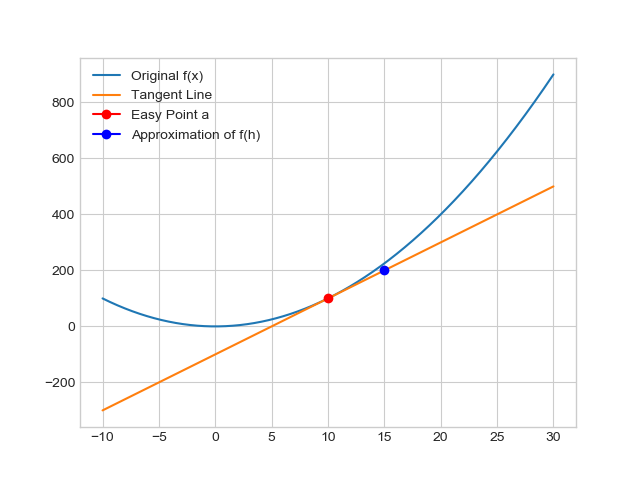
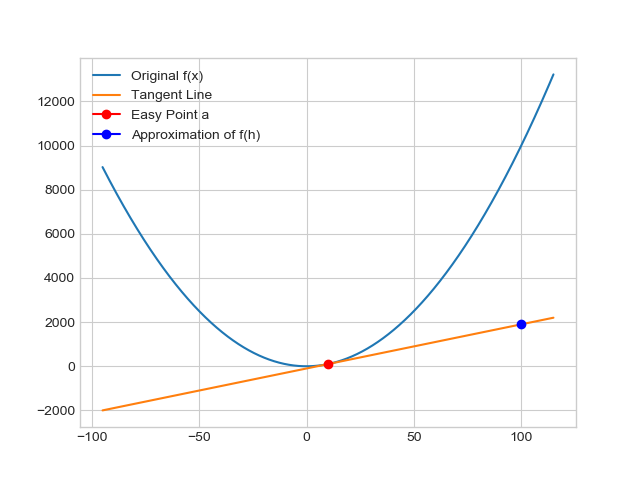
restructured maxmin route and function. Updated optimized.html to work with new variable names. Redid graph of maxmin route. Fixed maxmin route so that it properly discounts values outside of bounds given.

diff --git a/templates/optimized.html b/templates/optimized.html
@@ -8,8 +8,8 @@
 <div class="col-sm-12" style="background-color: #0f11175c; padding: 20px">
 	<font color="white" size="5">
     <div>
-        <p>Your function is $f(x) = {{ value }}$</p>
-        <p>Your maximum value is ${{ maximum }}$ and your minimum value is ${{ newvar }}$</p>
+        <p>Your function is $f(x) = {{ f }}$</p>
+        <p>Your maximum value is ${{ max_output }}$ and your minimum value is ${{ min_output }}$</p>
     </div>
 	</font>
 </div>
@@ -36,20 +36,20 @@
             <td>Step 3</td>
             <td>Solve for $x$:</td>
         </tr>
-        {% for solution in solutions %}
+        {% for extrema in extremaX %}
             <tr class="table-secondary">
                 <td></td>
-                <td>$x = {{ solution }}$</td>
+                <td>$x = {{ extrema }}$</td>
             </tr>
         {% endfor %}
         <tr class="bg-dark text-white">
             <td>Step 4</td>
-            <td>Plug solutions and endpoints into $f(x)$:</td>
+            <td>Plug VALID solutions and endpoints into $f(x)$:</td>
         </tr>
-        {% for candidate in candidates %}
+        {% for candidate in candidatesX %}
             <tr class="table-secondary">
                 <td></td>
-                <td>$f({{ candidate }}) = {{values[loop.index - 1]}}$</td>
+                <td>$f({{ candidate }}) = {{candidatesY[loop.index - 1]}}$</td>
             </tr>
         {% endfor %}
         <tr class="bg-dark text-white">
@@ -58,11 +58,11 @@
         </tr>
         <tr class="table-secondary">
             <td></td>
-            <td>Your maximum value is ${{ maximum }}$</td>
+            <td>Your maximum value is ${{ max_output }}$</td>
         </tr>
         <tr class="table-secondary">
             <td></td>
-            <td>Your minimum value is ${{ newvar }}$</td>
+            <td>Your minimum value is ${{ min_output }}$</td>
         </tr>
       </tbody>
     </table>

diff --git a/app.py b/app.py
@@ -126,52 +126,53 @@ def maxmin():
 
         # Setup our symbols for SymPy
         f = setup_symbols(f)
-
-        # Get Derivative, solve for real solutions, update candidates list
-        fprime = f.diff(x)
-        solutions = list()
-        solution = round(f.subs(x,0), 3)
-        if lb <= solution <= ub:
-            solutions.append(solution)
-        candidates = list()
-        for solution in solutions:
-            candidates.append(solution)
-        candidates.append(lb)
-        candidates.append(ub)
-
-        # Fill values list with solutions
-        values = list()
-        for candidate in candidates:
-            temp = round(f.subs(x, candidate), 3)
-            values.append(temp)
-
-        # Find max/min of values
-        maximum = max(values)
-        newvar = min(values)
-
-        # Create Graph
         lam_f = lambdify(x, f, 'numpy')
-        X = np.linspace(lb, ub, (ub-lb)*10)
-        y = lam_f(X)
 
+        # Calculate max/min and store values
+        fprime = f.diff(x)
+        extremaX = solve(fprime, x)
+        extremaY = []
+        candidatesX = [lb, ub]
+        candidatesY = [lam_f(lb), lam_f(ub)]
+        for extrema in extremaX:
+            extremaY.append(lam_f(extrema))
+            if (lb < extrema < ub):
+                candidatesX.append(extrema)
+                candidatesY.append(lam_f(extrema))
+
+        max_input = candidatesX[np.argmax(candidatesY)]
+        min_input = candidatesX[np.argmin(candidatesY)]
+
+        max_output = max(candidatesY)
+        min_output = min(candidatesY)
+
+        # Plot and save figure
+        dist = ub-lb
+        X = np.linspace(lb, ub, (dist)*100)
         plt.style.use('seaborn-whitegrid')
-        plt.scatter(X, y, c='g', marker='.', )
-        max_idx = np.argmax(values)
-        min_idx = np.argmin(values)
-        plt.plot(candidates[max_idx], values[max_idx], c='r', marker='o', ms=10, label='max')
-        plt.plot(candidates[min_idx], values[min_idx], c='b', marker='o', ms=10, label='min')
+        plt.plot(X, lam_f(X))
+        for i in range(2, len(candidatesX)):
+            print(candidatesX[i])
+            epsilon = dist/6
+            templb = int(candidatesX[i] - epsilon)
+            tempub = int(candidatesX[i] + epsilon)
+            tempX = np.linspace(templb, tempub, epsilon*100)
+            line = np.ones(tempX.shape)
+            line = line * candidatesY[i]
+            plt.plot(tempX, line)
+        plt.plot(max_input, max_output, c='r', marker='o', label='Maximum')
+        plt.plot(min_input, min_output, c='b', marker='o', label='Minimum')
         plt.legend()
         plt.savefig('static/img/maxmin_plot.png')
         plt.close()
 
         # Turn all into latex
-        value = latex(f)
+        f = latex(f)
         fprime = latex(fprime)
-        for i, solution in enumerate(solutions):
-            solutions[i] = latex(solution)
-        return render_template("optimized.html", value=value, fprime=fprime, solutions=solutions, lb=lb, ub=ub,
-                               candidates=candidates, newvar=newvar, values=values, maximum=maximum,
-                               url='static/img/maxmin_plot.png')
+        return render_template("optimized.html", ub=ub, lb=lb, max_input=max_input,
+                                max_output=max_output, min_input=min_input, min_output=min_output,
+                               url='static/img/maxmin_plot.png', candidatesX=candidatesX,
+                               candidatesY=candidatesY, f=f, fprime=fprime, extremaX=extremaX)
     else:
         return render_template("maxmin.html")
 
@@ -214,10 +215,11 @@ def aprox():
         dist = abs(a - h)
         X = np.linspace(a-dist-100, a + dist+100, (dist)*1000)
 
+        # Lambdify so we can apply the function to a linspace
         lam_f = lambdify(x, f, 'numpy')
         lam_fprime = lambdify(x, fprime, 'numpy')
+
         X = np.linspace(a-dist-15, a + dist+15, (dist)*1000)
-        y = lam_f(X)
 
         tan_line = fprimea * (X - a) + fa
         lam_tan_line = lambdify(x, tan_line, "numpy")
@@ -239,6 +241,7 @@ def aprox():
 
         return render_template("aproxd.html", value=value, fprime=fprime, a=a, h=h, fa=fa, fprimea=fprimea,
         lh=lh, url='static/img/aprox_plot.png')
+
     else:
         return render_template("aprox.html")
 
